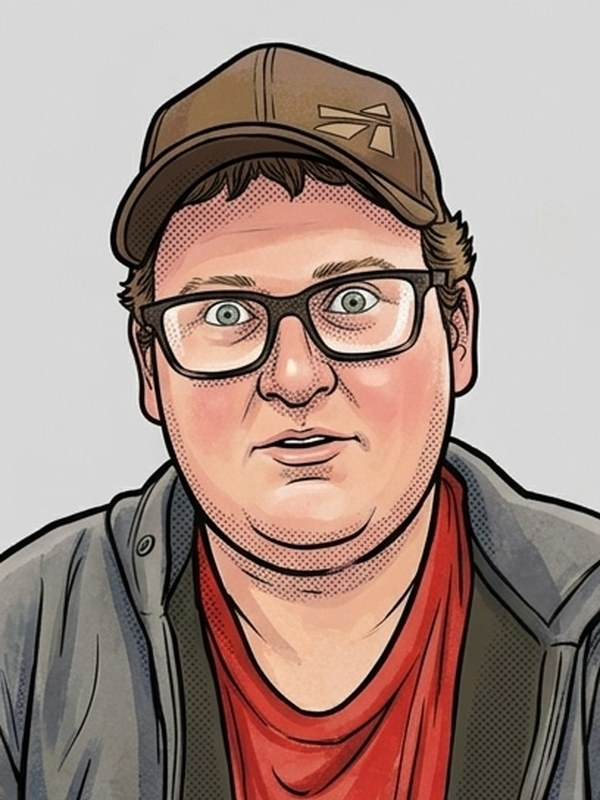
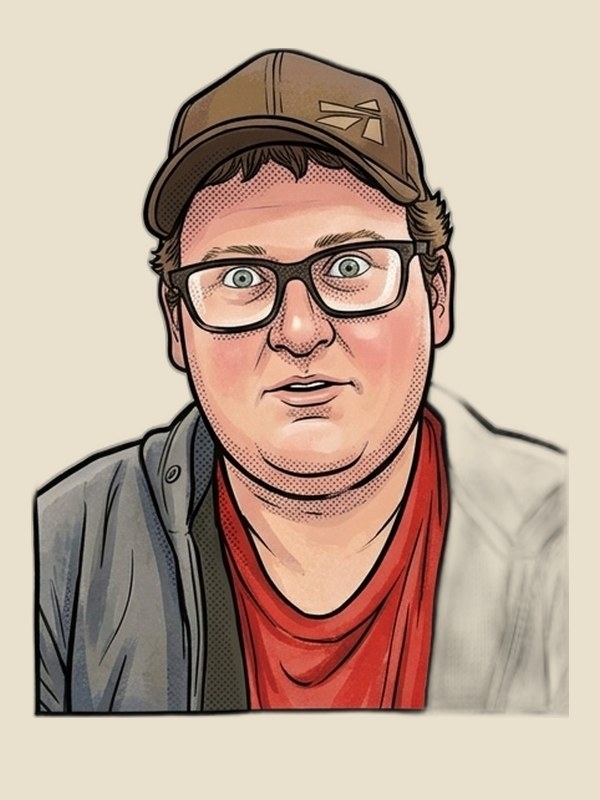
Porträts freigestellt & vereinheitlicht, Opfer statt Trainee, Chrigu statt Christian
- Personen per rembg freigestellt, auf gleiche Höhe (670px) normalisiert und auf einheitlichen Kraftpapier-Hintergrund gesetzt -> gleiche Grösse, gleicher Hintergrund (Mika nicht mehr 'kleiner')
- Rollen-Badge 'Trainee' -> 'OPFER'
- 'Christian' -> 'Chrigu' (Name + Mission-Text)
- data.js Stand-Kommentar aktualisiert (alle komplett)

diff --git a/data.js b/data.js
@@ -18,9 +18,7 @@
    KILOMETER-LOGIK: alle laufen dieselbe Runde (2,79 km). Eine Runde = +2.79.
    (Severin lief am 1.6. ausnahmsweise 1,5 Runden = 4.18 km.)
 
-   STAND DER ZAHLEN:
-        ✅ echt:        Strecke, Namen, Nicks, Christian komplett, alle km vom 1.6.
-        ⚠  Platzhalter: Grösse / Jahrgang / Gewicht von Severin, Lars und Mika.
+   STAND DER ZAHLEN: Alle vier komplett mit echten Werten (Stand 1.6.2026).
    ============================================================================ */
 
 window.SKINNY = {
@@ -46,7 +44,7 @@ window.SKINNY = {
     {
       id: "christian",
       photo: "assets/christian.jpg",
-      name: "Christian Schafroth",
+      name: "Chrigu Schafroth",
       nick: "El Gordo",
       role: "trainee",
       weightTrend: "down",

diff --git a/index.html b/index.html
@@ -69,7 +69,7 @@
       <div class="prose">
         <p>
           Es gibt Tage, da fasst ein Mann einen Entschluss, der grösser ist als er selbst.
-          Bei <strong>Severin</strong> und <strong>Christian</strong> war so ein Tag.
+          Bei <strong>Severin</strong> und <strong>Chrigu</strong> war so ein Tag.
           Zwei Schwergewichte mit einem BMI höher, als Matti Ruedi karierte Hemden
           im Schrank hat.
         </p>

diff --git a/js/main.js b/js/main.js
@@ -84,7 +84,7 @@
       }
 
       const roleCls = p.role === "coach" ? "card__role--coach" : "card__role--trainee";
-      const roleTxt = p.role === "coach" ? "Coach" : "Trainee";
+      const roleTxt = p.role === "coach" ? "Coach" : "Opfer";
       const initials = p.name.split(/\s+/).map((w) => w[0]).slice(0, 2).join("").toUpperCase();
       const portrait = p.photo
         ? `<img class="portrait" src="${p.photo}" alt="${p.name}">`
